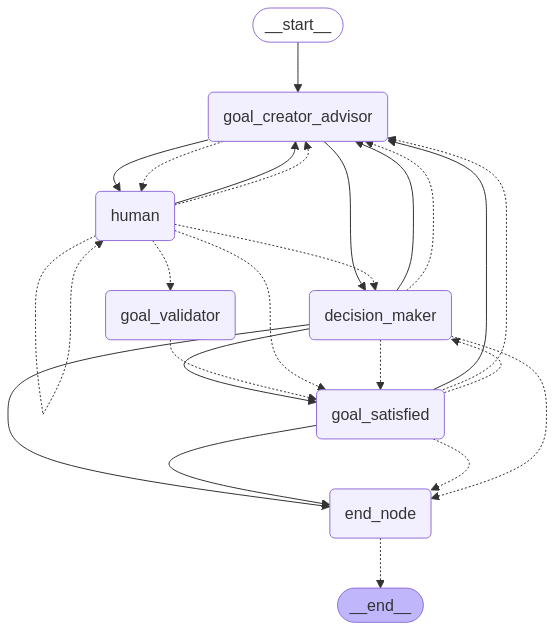
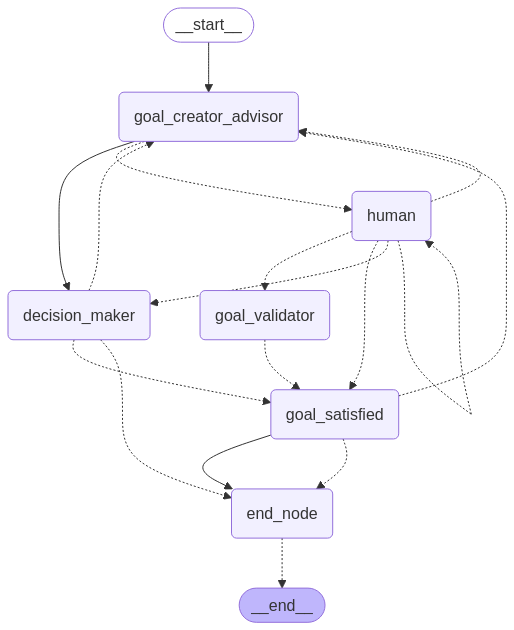
Reached end goal first time, save point 1

diff --git a/GoalAlignmentV2/nodes.py b/GoalAlignmentV2/nodes.py
@@ -6,7 +6,7 @@ import colorama
 colorama.init(autoreset=True)
 
 
-from agents import goal_creator_agent, goal_validator_agent, decision_maker_agent, goal_satisfied_agent
+from agents import goal_creator_agent, goal_validator_agent, decision_maker_agent, goal_satisfied_agent, confirmation_agent
 #####################
 #   Node Functions  #
 #####################
@@ -84,64 +84,170 @@ def human_node(
 
 def goal_satisfied_node(
     state: MessagesState
-) -> Command[Literal["goal_creator_advisor", "decision_maker", "end_node"]]:
+) -> Command[Literal["goal_creator_advisor", "end_node"]]:
     print(colorama.Fore.CYAN + ">> Entering goal_satisfied_node \n")
     print(colorama.Fore.BLUE + "DEBUG: goal_satisfied_node received state: " + str(type(state)))
 
     # Invoke the new goal satisfied agent to assess the refined goal.
+    print(colorama.Fore.BLUE + "DEBUG: Invoking goal_satisfied_agent")
     response = goal_satisfied_agent.invoke(state)
     # Extract the output text.
     agent_text = ""
     if isinstance(response, dict) and "messages" in response:
+        print(colorama.Fore.BLUE + f"DEBUG: Found {len(response.get('messages', []))} messages in response")
+
         ai_messages = [msg.content.strip() for msg in response["messages"] if hasattr(msg, "content") and msg.content.strip()]
         agent_text = "\n".join(ai_messages).strip()
     else:
         agent_text = str(response)
+        print(colorama.Fore.BLUE + f"DEBUG: Response was not a dict with messages, using string representation")
+
     # if not agent_text:
     #     agent_text = str(response)
     print(colorama.Fore.YELLOW + f"Extracted AI message (Goal Satisfied): {agent_text}")
     print(colorama.Fore.MAGENTA + f" expecting user input")
 
-    user_input = interrupt(value="[Goal Satisfied Node] Is this goal satisfactory? (yes/no): ")
-    normalized_input = user_input.strip().lower()
-    print(colorama.Fore.MAGENTA + f" confirmed user input: {normalized_input}")
+    # user_input = interrupt(value="[Goal Satisfied Node] Is this goal satisfactory? (yes/no): ")
+    # normalized_input = user_input.strip().lower()
+    # print(colorama.Fore.MAGENTA + f" confirmed user input: {normalized_input}")
+    # confirmation_keywords = ["yes", "yeah", "yep", "good", "great", "agree", "ok", "sure", "satisfactory"]
+    # keyword_match = any(keyword in normalized_input.lower() for keyword in confirmation_keywords)
+    # print(colorama.Fore.BLUE + f"DEBUG: Simple keyword match result: {keyword_match}")
     
-    if any(keyword in normalized_input for keyword in ["valid", "confirmed", "yes"]):
-        print(colorama.Fore.GREEN + "User confirmed the goal is valid. Moving to node: end_node")
-        # final_message = {"role": "ai", "content": f"{agent_text}\nUser confirmed the goal is satisfactory."}
-        # if hasattr(state, "messages"):
-        #     state.messages.append(final_message)
-        # else:
-        #     state["messages"] = [final_message]
-        # Update the goal state with the new message.
-        # update_goal_state(state)
-        final_message = {"role": "ai", "content": f"Great! Your confirmation on the refined goal is appreciated. Let's proceed with the project as planned. If you have any more questions or need further clarification, feel free to ask."}
+    # # Use the dedicated confirmation agent for more nuanced detection
+    # print(colorama.Fore.BLUE + f"DEBUG: Invoking confirmation_agent for nuanced analysis")
+    
+    # # Create a simple state with just the user's message
+    # confirmation_state = {"messages": [{"role": "user", "content": normalized_input}]}
+    
+    # # Get confirmation agent's analysis
+    # confirmation_response = confirmation_agent.invoke(confirmation_state)
+    
+    # # Extract confirmation response with detailed debug
+    # confirmation_text = ""
+    # if isinstance(confirmation_response, dict) and "messages" in confirmation_response:
+    #     print(colorama.Fore.BLUE + f"DEBUG: Found {len(confirmation_response.get('messages', []))} messages in confirmation response")
+    #     confirmation_messages = [msg.content.strip() for msg in confirmation_response.get("messages", []) if hasattr(msg, "content") and msg.content.strip()]
+    #     confirmation_text = "\n".join(confirmation_messages).strip()
+    # else:
+    #     confirmation_text = str(confirmation_response)
+    
+    # print(colorama.Fore.BLUE + f"DEBUG: Confirmation agent response: '{confirmation_text}'")
+    
+    # # Determine if confirmation was detected
+    # confirmation_detected = "CONFIRMATION DETECTED" in confirmation_text.upper() or keyword_match
+    # print(colorama.Fore.BLUE + f"DEBUG: Final confirmation detection result: {confirmation_detected}")
+    
+    # if confirmation_detected:
+    #     print(colorama.Fore.GREEN + "User confirmed the goal is valid. Moving to node: end_node")
+    #     final_message = "Great! Your confirmation on the refined goal is appreciated. Let's proceed with the project as planned. If you have any more questions or need further clarification, feel free to ask."
 
-        if hasattr(state, "metadata"):
-            state.metadata["goal_confirmed"] = True
+    #     # Update metadata with confirmation
+    #     if hasattr(state, "metadata"):
+    #         state.metadata["goal_confirmed"] = True
+    #     else:
+    #         state["metadata"] = {"goal_confirmed": True}
+            
+    #     update_goal_state(state)
+        
+    #     print(colorama.Fore.CYAN + ">> Sending to end_node \n")
+    #     return Command(
+    #         update={"messages": [{"role": "ai", "content": final_message}]},
+    #         goto="end_node"
+    #     )
+    # else:
+    #     print(colorama.Fore.GREEN + "User did not confirm the goal. Moving to node: goal_creator_advisor")
+    #     rejection_message = f"{agent_text}\n\nLet's continue refining the goal to better meet your expectations."
+    #     return Command(
+    #         update={"messages": [{"role": "ai", "content": rejection_message}]},
+    #         goto="goal_creator_advisor"
+    #     )
+    try:
+        user_input = interrupt(value="[Goal Satisfied Node] Is this goal satisfactory? (yes/no): ")
+        normalized_input = user_input.strip().lower()
+        print(colorama.Fore.MAGENTA + f" confirmed user input: '{normalized_input}'")
+        
+        # EXPANDED keywords for better matching
+        confirmation_keywords = [
+            "yes", "yeah", "yep", "y", "good", "great", "agree", "ok", "okay", 
+            "sure", "satisfactory", "satisfied", "accept", "approved", "fine",
+            "sounds good", "looks good", "works", "perfect", "wonderful", "right"
+        ]
+        
+        # Check if ANY part of the input matches ANY keyword
+        keyword_match = any(keyword in normalized_input for keyword in confirmation_keywords)
+        print(colorama.Fore.BLUE + f"DEBUG: Keyword match check: {keyword_match}")
+        
+        # SIMPLIFIED FLOW: If keywords match, go to end_node, otherwise goal_creator_advisor
+        if keyword_match:
+            print(colorama.Fore.GREEN + f"*** CONFIRMATION DETECTED: '{normalized_input}' ***")
+            print(colorama.Fore.GREEN + "User confirmed the goal is valid. Moving to end_node")
+            
+            # Immediately prepare final state
+            final_message = "Great! Your confirmation on the refined goal is appreciated. Let's proceed with the project as planned."
+            
+            # Update metadata
+            if hasattr(state, "metadata"):
+                state["metadata"]["goal_confirmed"] = True
+            else:
+                state["metadata"] = {"goal_confirmed": True}
+            
+            # Return directly to end_node without additional confirmation checks
+            print(colorama.Fore.RED + "*** DIRECT ROUTING TO END_NODE ***")
+            return Command(
+                update={"messages": [{"role": "ai", "content": final_message}]},
+                goto="end_node"
+            )
         else:
-            state["metadata"] = {"goal_confirmed": True}
-        update_goal_state(state)
-        # return Command(
-        #     update={"messages": [final_message]},
-        #     goto="end_node"
-        # )
-        print(colorama.Fore.CYAN + ">> Moving to end_node via direct call \n")
-        # return end_node(state)
+            print(colorama.Fore.RED + f"*** NO CONFIRMATION DETECTED: '{normalized_input}' ***")
+            print(colorama.Fore.GREEN + "User did not confirm the goal. Moving to goal_creator_advisor")
+            return Command(
+                update={"messages": [{"role": "ai", "content": "Let's refine the goal further to meet your expectations."}]},
+                goto="goal_creator_advisor"
+            )
+    except Exception as e:
+        print(colorama.Fore.RED + f"ERROR in goal_satisfied_node: {str(e)}")
+        # Default to end_node in case of error to avoid loops
         return Command(
-            update={"messages": [{"role": "ai", "content": final_message}]},
+            update={"messages": [{"role": "ai", "content": "An error occurred processing your input. Let's finalize the goal as is."}]},
             goto="end_node"
         )
-        # return end_node(state)
-    else:
-        print(colorama.Fore.GREEN + "User did not confirm the goal. Moving to node: goal_creator_advisor")
-        return Command(
-            update={"messages": [{
-                "role": "ai",
-                "content": f"{agent_text}\nUser indicated further refinement is needed.",
-            }]},
-            goto="goal_creator_advisor"
-        )
+    # if any(keyword in normalized_input for keyword in ["valid", "confirmed", "yes"]):
+    #     print(colorama.Fore.GREEN + "User confirmed the goal is valid. Moving to node: end_node")
+    #     # final_message = {"role": "ai", "content": f"{agent_text}\nUser confirmed the goal is satisfactory."}
+    #     # if hasattr(state, "messages"):
+    #     #     state.messages.append(final_message)
+    #     # else:
+    #     #     state["messages"] = [final_message]
+    #     # Update the goal state with the new message.
+    #     # update_goal_state(state)
+    #     final_message = {"role": "ai", "content": f"Great! Your confirmation on the refined goal is appreciated. Let's proceed with the project as planned. If you have any more questions or need further clarification, feel free to ask."}
+
+    #     if hasattr(state, "metadata"):
+    #         state.metadata["goal_confirmed"] = True
+    #     else:
+    #         state["metadata"] = {"goal_confirmed": True}
+    #     update_goal_state(state)
+    #     # return Command(
+    #     #     update={"messages": [final_message]},
+    #     #     goto="end_node"
+    #     # )
+    #     print(colorama.Fore.CYAN + ">> Moving to end_node via direct call \n")
+    #     # return end_node(state)
+    #     return Command(
+    #         update={"messages": [{"role": "ai", "content": final_message}]},
+    #         goto="end_node"
+    #     )
+    #     # return end_node(state)
+    # else:
+    #     print(colorama.Fore.GREEN + "User did not confirm the goal. Moving to node: goal_creator_advisor")
+    #     return Command(
+    #         update={"messages": [{
+    #             "role": "ai",
+    #             "content": f"{agent_text}\nUser indicated further refinement is needed.",
+    #         }]},
+    #         goto="goal_creator_advisor"
+    #     )
    
 def decision_maker_node(
     state: MessagesState

diff --git a/GoalAlignmentV2/agents.py b/GoalAlignmentV2/agents.py
@@ -24,7 +24,7 @@ def get_local_llm(model_name="deepseek-r1:14b", temperature=0.7, api_url="http:/
 #####################
 #   Agents (LLMs)   #
 #####################
-Think=False
+Think=False #MORE VERBOSE:
 goal_creator_model = get_local_llm(temperature=0.7, show_thinking=Think)
 goal_validator_model = get_local_llm(temperature=0.0,show_thinking=Think)
 decision_maker_model = get_local_llm(temperature=0.7,show_thinking=Think)
@@ -99,6 +99,22 @@ goal_satisfied_agent = create_react_agent(
         "both the LLM and the user appear satisfied with it. "
         "Always ask the user if they are satisfied with the goal. "
         "If the user is satisfied, include the word 'confirmed' in your final message. "
+        """IMPORTANT: When the user says anything that indicates confirmation, approval, or satisfaction with the goal (e.g., "sounds good", "satisfactory", "that works", "yes", etc.), clearly state in your response: "The goal is now CONFIRMED" to signal that the goal has been approved.
+        Keep responses concise and focused on refining the goal."""
+    ),
+)
 
+
+confirmation_tools = [dummy_tool]
+confirmation_agent = create_react_agent(
+    get_local_llm(temperature=0.0, show_thinking=False),  
+    confirmation_tools,
+    prompt=(
+       "You are a user confirmation detector. Your ONLY job is to determine if user input indicates confirmation.\n\n"
+        "Examples of confirmations: 'yes', 'sounds good', 'great', 'that works', 'I like it', etc.\n\n"
+        "ALWAYS respond in this EXACT format:\n"
+        "- If confirmed: 'CONFIRMATION DETECTED'\n"
+        "- If not confirmed: 'NO CONFIRMATION DETECTED'\n\n"
+        "Do not add ANY other text or explanation."
     ),
 )

diff --git a/GoalAlignmentV2/StateGraph.py b/GoalAlignmentV2/StateGraph.py
@@ -53,17 +53,17 @@ builder.add_node("end_node", end_node)
 builder.add_edge(START, "goal_creator_advisor")
 
 # Human interaction edges
-builder.add_edge("goal_creator_advisor", "human")
-builder.add_edge("human", "goal_creator_advisor")
+# builder.add_edge("goal_creator_advisor", "human")
+# builder.add_edge("human", "goal_creator_advisor")
 
 builder.add_edge("goal_creator_advisor", "decision_maker")
-builder.add_edge("decision_maker", "goal_creator_advisor")
-builder.add_edge("decision_maker", "goal_satisfied")
-builder.add_edge("decision_maker", "end_node")
+# builder.add_edge("decision_maker", "goal_creator_advisor")
+# builder.add_edge("decision_maker", "goal_satisfied")
+# builder.add_edge("decision_maker", "end_node")
 
 
 # Goal processing flow
-builder.add_edge("goal_satisfied", "goal_creator_advisor")
+# builder.add_edge("goal_satisfied", "goal_creator_advisor")
 builder.add_edge("goal_satisfied", "end_node")
 
 checkpointer = MemorySaver()
